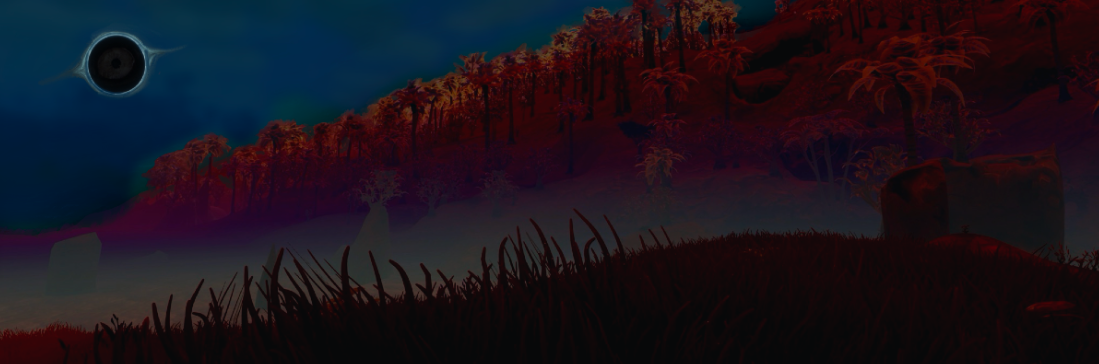
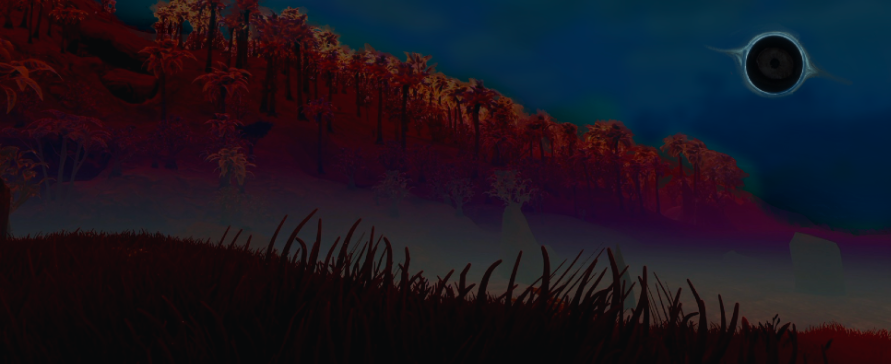
blackhole profile

diff --git a/services/profile-card.js b/services/profile-card.js
@@ -46,7 +46,7 @@ async function circle(input, size) {
     .composite([{ input: Buffer.from(`<svg width="${size}" height="${size}"><circle cx="${size / 2}" cy="${size / 2}" r="${size / 2}" fill="white"/></svg>`), blend: 'dest-in' }]).png().toBuffer()
 }
 async function label(value, font, width) {
-  const input = await sharp({ text: { text: `<span foreground="#f6f4ff">${xml(clean(value)) || 'Player'}</span>`, font, rgba: true, dpi: 72 } }).png().toBuffer()
+  const input = await sharp({ text: { text: `<span foreground="#e8f0f3">${xml(clean(value)) || 'Player'}</span>`, font, rgba: true, dpi: 72 } }).png().toBuffer()
   const meta = await sharp(input).metadata()
   return sharp(input).resize({ width: Math.min(width, meta.width), withoutEnlargement: true }).png().toBuffer()
 }
@@ -55,35 +55,35 @@ async function renderProfileCard({ displayName, username, user = {}, avatar, bad
   const progress = progression(user), overlays = []
   const count = value => Number.isSafeInteger(value) && value >= 0 ? value : 0
   const number = value => new Intl.NumberFormat('en-US', { maximumFractionDigits: 1 }).format(value)
-  const text = (x, y, size, value, color = '#f6f4ff', weight = 400) => `<text x="${x}" y="${y}" font-family="Segoe UI, sans-serif" font-size="${size}" font-weight="${weight}" fill="${color}">${xml(value)}</text>`
+  const text = (x, y, size, value, color = '#e8f0f3', weight = 400) => `<text x="${x}" y="${y}" font-family="Segoe UI, sans-serif" font-size="${size}" font-weight="${weight}" fill="${color}">${xml(value)}</text>`
   const badgeMarkup = badges.slice(0, MAX_BADGES).map((badge, i) => {
     const x = 288 + i * 86
-    return `<circle cx="${x}" cy="391" r="27" fill="#211b37" stroke="#776c94" stroke-opacity=".5"/>` +
-      text(x - 8, 400, 25, initial(badge.name), '#d8c6ff', 600) +
-      `<text x="${x}" y="440" text-anchor="middle" font-family="Segoe UI, sans-serif" font-size="12" fill="#c7bfd9">${xml(truncate(badge.name, 10))}</text>`
+    return `<circle cx="${x}" cy="391" r="27" fill="#0d2029" stroke="#4f7f91" stroke-opacity=".6"/>` +
+      text(x - 8, 400, 25, initial(badge.name), '#aecbd6', 600) +
+      `<text x="${x}" y="440" text-anchor="middle" font-family="Segoe UI, sans-serif" font-size="12" fill="#bdced5">${xml(truncate(badge.name, 10))}</text>`
   }).join('')
   const layout = svg(`<defs>
-    <linearGradient id="shade"><stop stop-color="#080914" stop-opacity=".97"/><stop offset=".60" stop-color="#111022" stop-opacity=".84"/><stop offset="1" stop-color="#141123" stop-opacity=".50"/></linearGradient>
-    <linearGradient id="bar"><stop stop-color="#9b7cff"/><stop offset="1" stop-color="#f2c594"/></linearGradient>
+    <linearGradient id="shade"><stop stop-color="#031827" stop-opacity=".72"/><stop offset=".60" stop-color="#071923" stop-opacity=".38"/><stop offset="1" stop-color="#170e16" stop-opacity=".18"/></linearGradient>
+    <linearGradient id="bar"><stop stop-color="#36758c"/><stop offset="1" stop-color="#9b283d"/></linearGradient>
   </defs><rect width="1200" height="480" fill="url(#shade)"/>
-  <rect x="20" y="20" width="1160" height="440" rx="25" fill="none" stroke="#d3c3ff" stroke-opacity=".20"/>
-  ${isAdmin ? '<text x="1118" y="62" text-anchor="end" font-family="Segoe UI, sans-serif" font-size="14" font-weight="600" fill="#e6d7ff">ADMIN</text>' : ''}
-  <circle cx="140" cy="184" r="92" fill="#211b37" stroke="#c7a9f4" stroke-width="2"/>
-  ${text(120, 200, 45, initial(displayName || username || 'P'), '#d8c6ff', 600)}
-  <rect x="54" y="298" width="172" height="42" rx="21" fill="#c3a2fa" fill-opacity=".12"/>
-  <text x="140" y="325" text-anchor="middle" font-family="Segoe UI, sans-serif" font-size="16" fill="#e6d7ff">LEVEL ${progress.level}</text>
-  ${text(260, 143, 18, '@' + truncate(username || 'player', 40), '#bdb4cf')}
-  ${text(260, 193, 13, 'FATE POINTS', '#bdb4cf', 600)}
-  ${text(260, 231, 30, number(count(user.fate_points)), '#f6f4ff', 600)}
-  ${text(446, 193, 13, 'BANK', '#bdb4cf', 600)}
-  ${text(446, 231, 30, number(count(user.bank)), '#f6f4ff', 600)}
-  ${text(632, 193, 13, 'TOTAL AVAILABLE', '#bdb4cf', 600)}
-  ${text(632, 231, 30, number(count(user.fate_points) + count(user.bank)), '#f6f4ff', 600)}
-  <text x="1118" y="272" text-anchor="end" font-family="Segoe UI, sans-serif" font-size="14" fill="#d4cae4">LEVEL ${progress.level + 1}</text>
-  <rect x="260" y="288" width="858" height="16" rx="8" fill="#d6c7ff" fill-opacity=".16"/>
+  <rect x="20" y="20" width="1160" height="440" rx="25" fill="none" stroke="#527f91" stroke-opacity=".40"/>
+  ${isAdmin ? '<text x="1118" y="62" text-anchor="end" font-family="Segoe UI, sans-serif" font-size="14" font-weight="600" fill="#c5dce5">ADMIN</text>' : ''}
+  <circle cx="140" cy="184" r="92" fill="#0d2029" stroke="#527f91" stroke-width="2"/>
+  ${text(120, 200, 45, initial(displayName || username || 'P'), '#aecbd6', 600)}
+  <rect x="54" y="298" width="172" height="42" rx="21" fill="#527f91" fill-opacity=".20"/>
+  <text x="140" y="325" text-anchor="middle" font-family="Segoe UI, sans-serif" font-size="16" fill="#c5dce5">LEVEL ${progress.level}</text>
+  ${text(260, 143, 18, '@' + truncate(username || 'player', 40), '#b1c4cd')}
+  ${text(260, 193, 13, 'FATE POINTS', '#b1c4cd', 600)}
+  ${text(260, 231, 30, number(count(user.fate_points)), '#e8f0f3', 600)}
+  ${text(446, 193, 13, 'BANK', '#b1c4cd', 600)}
+  ${text(446, 231, 30, number(count(user.bank)), '#e8f0f3', 600)}
+  ${text(632, 193, 13, 'TOTAL AVAILABLE', '#b1c4cd', 600)}
+  ${text(632, 231, 30, number(count(user.fate_points) + count(user.bank)), '#e8f0f3', 600)}
+  <text x="1118" y="272" text-anchor="end" font-family="Segoe UI, sans-serif" font-size="14" fill="#c5dce5">LEVEL ${progress.level + 1}</text>
+  <rect x="260" y="288" width="858" height="16" rx="8" fill="#527f91" fill-opacity=".30"/>
   ${progress.fraction > 0 ? `<rect x="260" y="288" width="${858 * progress.fraction}" height="16" rx="${Math.min(8, 429 * progress.fraction)}" fill="url(#bar)"/>` : ''}
-  ${text(260, 348, 12, 'RECENT UNLOCKS', '#bdb4cf', 600)}
-  ${badgeMarkup || text(260, 402, 18, badgesUnavailable ? 'Badges temporarily unavailable' : 'Your next badge belongs here.', '#9c93b0')}`)
+  ${text(260, 348, 12, 'RECENT UNLOCKS', '#b1c4cd', 600)}
+  ${badgeMarkup || text(260, 402, 18, badgesUnavailable ? 'Badges temporarily unavailable' : 'No badges unlocked yet.', '#a3bac4')}`)
   const name = await label(truncate(displayName || username || 'Player', 48), 'Segoe UI Bold 38', 820)
   // Text rasterization preserves Unicode names and measures before fitting.
   overlays.push({ input: layout }, { input: name, left: 260, top: 73 })

diff --git a/scripts/profile-preview.js b/scripts/profile-preview.js
@@ -4,13 +4,10 @@ const path = require('node:path')
 const sharp = require('sharp')
 const { renderProfileCard } = require('../services/profile-card')
 async function main() {
-  const avatar = await sharp(Buffer.from('<svg width="200" height="200"><rect width="200" height="200" fill="#25223f"/><circle cx="100" cy="74" r="38" fill="#baa0f1"/><ellipse cx="100" cy="176" rx="68" ry="56" fill="#baa0f1"/></svg>')).png().toBuffer()
-  const buffer = await renderProfileCard({ displayName: 'Headmaster', username: 'headmaster', avatar, isAdmin: true,
-    user: { chat_level: 27, chat_exp: 3000, fate_points: 75, bank: 40 }, badges: [
-      { name: 'Marq', imageAsset: 'SPOOKY_MARQ_BADGE.png' },
-      { name: 'Selene', imageAsset: 'SPOOKY_SELENE_BADGE.png' }, { name: 'Hadley' },
-      ...['Maxim','Niklaus','Qam','Hellfed Marq','Future 1','Future 2','Future 3'].map(name => ({ name })),
-    ] })
+  const avatar = await sharp(Buffer.from('<svg width="200" height="200"><rect width="200" height="200" fill="#0d2029"/><circle cx="100" cy="74" r="38" fill="#658c9e"/><ellipse cx="100" cy="176" rx="68" ry="56" fill="#658c9e"/></svg>')).png().toBuffer()
+  // This generic example has no ownership records. Never seed badges to fill slots.
+  const buffer = await renderProfileCard({ displayName: 'Example Player', username: 'example.player', avatar, isAdmin: true,
+    user: { chat_level: 27, chat_exp: 3000, fate_points: 75, bank: 40 }, badges: [] })
   const output = path.resolve(__dirname, '../artifacts/profile-card-preview.png')
   await fs.mkdir(path.dirname(output), { recursive: true }); await fs.writeFile(output, buffer)
   console.log(output)

diff --git a/tests/profile-command.test.js b/tests/profile-command.test.js
@@ -53,6 +53,22 @@ test('Admin card label comes from the selected member role', async t => {
     roles: { cache: new Map([['admin', { id: 'admin', name: 'Admin' }]]) } })
   await f.execute(); assert.equal(f.rendered[0].isAdmin, true)
 })
+test('profile shows only selected member ownership, regardless of available server badges/emojis', async t => {
+  const f = await fixture(t)
+  const { defineBadgeModel, createBadges } = require('../services/badges')
+  const Ownership = defineBadgeModel(f.User.sequelize); await Ownership.sync()
+  await Ownership.bulkCreate([
+    { guildId: 'guild', userId: 'alice', badgeId: 'spooky-2026:sel', sourceEventId: 'spooky-2026', awardedAt: new Date() },
+    { guildId: 'guild', userId: 'bob', badgeId: 'spooky-2026:mrq', sourceEventId: 'spooky-2026', awardedAt: new Date() },
+    { guildId: 'other', userId: 'alice', badgeId: 'spooky-2026:had', sourceEventId: 'spooky-2026', awardedAt: new Date() },
+  ])
+  f.interaction.guild.emojis.fetch = async () => new Map([['mrq', { id: '123456789012345678', name: 'spooky_marq_badge' }]])
+  await f.execute({ badgeService: createBadges({ sequelize: f.User.sequelize }) })
+  assert.deepEqual(f.rendered[0].badges.map(badge => badge.id), ['spooky-2026:sel'])
+  await Ownership.destroy({ where: { guildId: 'guild', userId: 'alice' } })
+  await f.execute({ badgeService: createBadges({ sequelize: f.User.sequelize }) })
+  assert.deepEqual(f.rendered[1].badges, [])
+})
 test('profile wrapper rejects production and wrong guild before loading storage', async t => {
   const oldEnv = process.env.NODE_ENV, oldGuild = process.env.GUILDID
   t.after(() => {

diff --git a/artifacts/profile-development/processes.js b/artifacts/profile-development/processes.js
@@ -2,7 +2,7 @@ const fs = require('node:fs'), path = require('node:path')
 process.env.PM2_HOME = 'C:/Users/headm/.pm2'
 const pm2 = require('C:/Users/headm/AppData/Roaming/npm/node_modules/pm2')
 const mode = process.argv[2]
-const prefix = process.argv[3] === 'revision' ? 'revision-' : ''
+const prefix = ['revision', 'palette'].includes(process.argv[3]) ? `${process.argv[3]}-` : ''
 if (!['before', 'after', 'reload', 'reload-production', 'save'].includes(mode)) throw Error('Expected before, after, reload, reload-production or save')
 const invoke = (fn, ...args) => new Promise((resolve, reject) => fn.call(pm2, ...args, (error, value) => error ? reject(error) : resolve(value)))
 async function main() {

diff --git a/docs/profile-palette.md b/docs/profile-palette.md
@@ -1,0 +1,15 @@
+# Profile background, palette and ownership-only preview
+
[1 lines of base64/hex data omitted]
+
+The card uses the image's navy/blue and crimson palette: slate-blue borders/avatar ring, blue-to-crimson progress bar, blue-gray labels and an overlay that retains the landscape. Lavender and peach accents are removed. The destination-level label, current level and role-derived ADMIN label remain.
+
+Live card ownership was already scoped to the selected member and current guild through `BadgeOwnership`. Available server emoji supply images only after an owned badge is selected; they do not grant or add badges. The ten-icon synthetic capacity preview misleadingly supplied invented badges, so it has been replaced by a generic zero-unlock example with no filler circles. The card shows at most10 actual owned unlocks; empty ownership says “No badges unlocked yet.” Unavailable ownership storage still has its separate error message.
+
+The development owner's two prior admin test grants remain saved; no ownership/player data was changed. This presentation task does not reset them. Other members' badges and ownership in other guilds are excluded.
+
+Validation: **12/12 profile renderer/command tests pass**, including a new memory-database regression with selected-member, other-member and other-guild ownership plus available server emoji. Rendering, syntax and scoped whitespace checks pass; the new PNG was visually inspected. No economy, XP formula, command definition or production feature change.
+
+Evidence: `artifacts/profile-development/palette-tests.log`, `palette-{before,after}-processes.json`; current zero-unlock preview: `artifacts/profile-card-preview.png`. Only the development bot is reloaded; `/profile` stays development-only. The isolated `feature/S-2-profile` renderer, preview and supplied asset are synchronized without a merge or branch switch.
+
+Rollout verified October4,11:51 Pacific: development reloaded once, PID5440/restarts32, online with a fresh login. Production remains PID11728/restarts32 with its original startup time. Both fresh error baselines are unchanged: production2,838,531 bytes/18:09:50Z; development35,834 bytes/18:11:28Z, October4. PM2 saved. No command registration or database migration/reset/correction.

diff --git a/AGENTS.md b/AGENTS.md
@@ -1,3 +1,5 @@
+Profile PNG background/palette update is live in development: supplied blackhole.png copied unchanged, slate-blue/crimson bar and accents, no invented preview badges. Live card shows only selected-member/current-guild ownership, at most10;12/12 profile checks pass with cross-member/guild/emoji regression. Dev PID5440/restarts32 ready after one reload; production PID11728/restarts32 not reloaded, both error baselines unchanged, PM2 saved. See [current profile palette evidence](docs/profile-palette.md). Saved development test-grant badges remain unchanged.
+
 Command performance fixes are LIVE: [performance evidence](docs/spooky-performance.md). Full before/after sweeps replaced by fresh DB expiry/closure guard plus startup/minute recovery; current-operation projections follow visible saved results. Spell roster checks 900–1190 SQL ->6; ordinary candy skips inventory/access scans; modern reversal cleanup avoids needless ledger reads. Ticket listener now owns only ticket buttons, preventing game chooser/confirmation races and catching its own failures. Existing PNG profile-background path repaired; /profile stays dev-only. 411/411 full tests,56/56 and36/36 focused,9/9 repair/parity/profile/ticket pass; offline preflight/registry/syntax/whitespace pass. One reload each: dev PID28132/restarts31, prod PID11728/restarts32, both ready, PM2 saved. Fresh error baselines unchanged (prod2838531 bytes/18:09:50Z; dev35834 bytes/18:11:28Z, October4). Crown actual/ledger agree (prod1/dev0), no pending transfers. Config19/odds/economy/storage untouched; no registry deployment, migration/reset/merge. Slots/refill held MondayOct5. Prior context below is historical where superseded.
 
 Profile revision and production Bots-role exclusions are LIVE: up to10 recent owned badges, destination level only at XP bar, no brand/XP numbers, ADMIN role label, assets/profile-backgrounds seasonal folders. 402/402 full tests,52/52 focused and19/19 final checks pass. One reload each; both ready/restarts30/error baselines unchanged, PM2 saved. /profile stays development-only (15 dev/13 prod GET verified). Two owner dev badges are prior admin test grants; no ownership reset. See [profile revision evidence](docs/profile-revisions.md).

diff --git a/README.md b/README.md
@@ -1,3 +1,5 @@
+Profile PNG background/palette update is live in development: supplied blackhole.png copied unchanged, slate-blue/crimson bar and accents, no invented preview badges. Live card shows only selected-member/current-guild ownership, at most10;12/12 profile checks pass with cross-member/guild/emoji regression. Dev PID5440/restarts32 ready after one reload; production PID11728/restarts32 not reloaded, both error baselines unchanged, PM2 saved. See [current profile palette evidence](docs/profile-palette.md). Saved development test-grant badges remain unchanged.
+
 Command performance fixes are LIVE: [performance evidence](docs/spooky-performance.md). Full before/after sweeps replaced by fresh DB expiry/closure guard plus startup/minute recovery; current-operation projections follow visible saved results. Spell roster checks 900–1190 SQL ->6; ordinary candy skips inventory/access scans; modern reversal cleanup avoids needless ledger reads. Ticket listener now owns only ticket buttons, preventing game chooser/confirmation races and catching its own failures. Existing PNG profile-background path repaired; /profile stays dev-only. 411/411 full tests,56/56 and36/36 focused,9/9 repair/parity/profile/ticket pass; offline preflight/registry/syntax/whitespace pass. One reload each: dev PID28132/restarts31, prod PID11728/restarts32, both ready, PM2 saved. Fresh error baselines unchanged (prod2838531 bytes/18:09:50Z; dev35834 bytes/18:11:28Z, October4). Crown actual/ledger agree (prod1/dev0), no pending transfers. Config19/odds/economy/storage untouched; no registry deployment, migration/reset/merge. Slots/refill held MondayOct5. Prior context below is historical where superseded.
 
 Profile revision and production Bots-role exclusions are LIVE: up to10 recent owned badges, destination level only at XP bar, no brand/XP numbers, ADMIN role label, assets/profile-backgrounds seasonal folders. 402/402 full tests,52/52 focused and19/19 final checks pass. One reload each; both ready/restarts30/error baselines unchanged, PM2 saved. /profile stays development-only (15 dev/13 prod GET verified). Two owner dev badges are prior admin test grants; no ownership reset. See [profile revision evidence](docs/profile-revisions.md).
